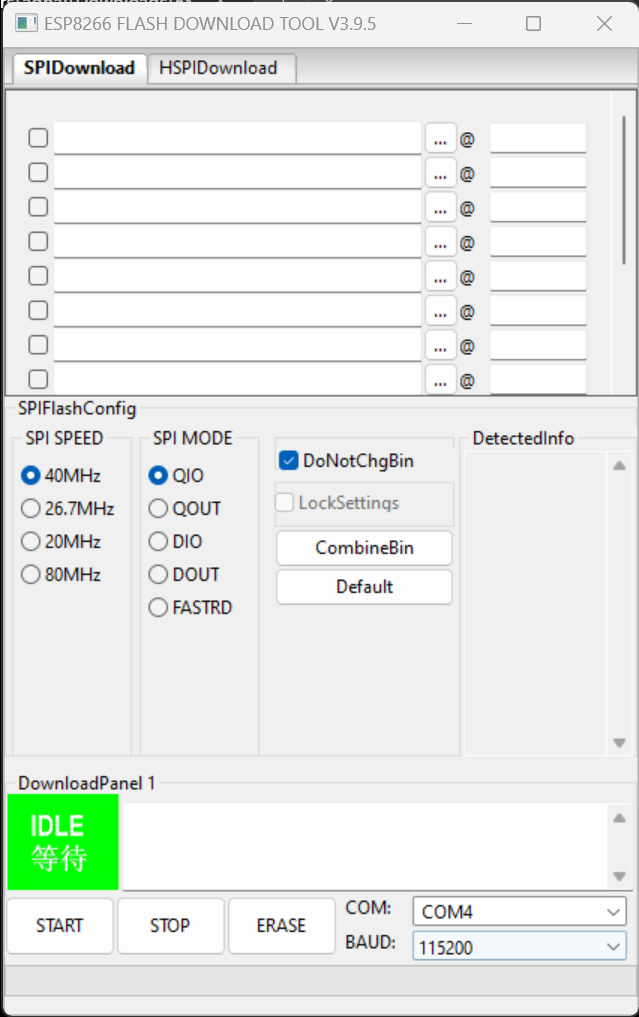
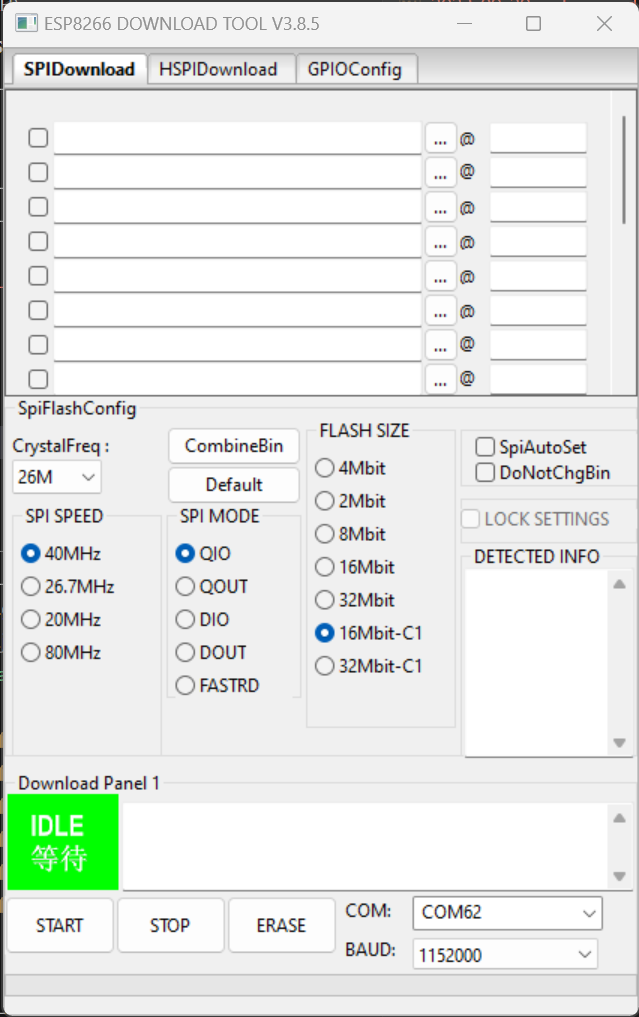
Fixing DCC-EX instructions

diff --git a/_posts/2023-09-29-arduino.md b/_posts/2023-09-29-arduino.md
@@ -13,9 +13,9 @@ So, here is the mechanism that worked for me.
 
 ## Step 1: Download the files you will need
 
-You need a flash downloader and the appropriate flash files.  You can download the flash downloader from [Espressif](https://www.espressif.com/en/support/download/other-tools).  Note that this only works on a Windows PC.
+You need a flash downloader and the appropriate flash files.  You can download the flash downloader from [DCC-EX](https://dcc-ex.com/_static/files/esp8266/flash_download_tool_v3.8.5.zip), but there are other flash download tools that work as werll.  Note that this only works on a Windows PC.
 
-The flash files themselves [are available on GitHub](https://github.com/espressif/ESP8266_NONOS_SDK), also from Espressif.  When you get to the GitHub page, click on **Code**, then **Download ZIP**.
+The flash files themselves [are available on DCC-EX](https://dcc-ex.com/_static/files/esp8266/ESP8266_NonOS_AT_Bin_V1.7.4.zip) for the precise version that DCC-EX supports, or you can download the v1.7 version from [the Espressif GitHub repo](https://github.com/espressif/ESP8266_NONOS_SDK).  When you get to the GitHub page, click on **Code**, then **Download ZIP**.
 
 You now have two ZIP files. Unpack them using your favorite tool (including the one built into Windows).
 
@@ -52,10 +52,14 @@ To set up the Arduino for flashing:
 
 To erase the Arduino memory:
 
-* Start the `flash_download_tool_3.9.5.exe`.
-* Select `ESP8266` and `Develop` from the drop-downs.
+* Start the `flash_download_tool_3.8.5.exe`.
+* Click **Developer Mode**.
 
-![The Flash Download Tool front page](/assets/2023/0929/img2.png)
+  ![Select Developer Mode](/assets/2023/0929/screenshot-1.png)
+
+* Click **ESP8266 Download Tool**.
+
+  ![Select ESP8266 Download Tool](/assets/2023/0929/screenshot-2.png)
 
 This will bring up a rather intimidating looking screen, with no details on it.  Yes, this is where most people will go wrong.
 
@@ -65,16 +69,17 @@ Let's split this into three areas:
 
 1. At the bottom (next to the START/STOP/ERASE) is the COM and BAUD settings.  This is the communications port that is used to communicate with the Arduino board.
 2. In the middle is the SPIFlashConfig section. Set these to:
-   * SPI SPEED = 40MHz
-   * SPI MODE = DIO
-   * `DoNotChgBin` is checked
-3. At the top is a list of files and the memory locations they will be flashed to.  All the files are in the `ESP8266_NONOS_SDK-master` directory that was created when you downloaded the GitHub repository.  More on this later.
+   * CrystalFreq = **26M**
+   * SPI SPEED = **40MHz**
+   * SPI MODE = **DIO**
+   * FLASH SIZE = **16Mbit-C1**
+3. In the bottom section, set BAUD to **460800**
 
 Let's find out our COM setting.  Open up Device Manager (search for it if you don't know where it is), then expand the **Ports (COM & LPT)** section.  You are looking for something called `USB-SERIAL CH340`.
 
 ![The Device Manager showing the USB-SERIAL port](/assets/2023/0929/img4.png)
 
-On mine, this is **COM4**.  Yours may be different, since it's dependent on your computer.  Select this value in the COM drop-down of the Flash Download Tool. Make sure the BAUD is set to 115200 (which is the default).
+On mine, this is **COM4**.  Yours may be different, since it's dependent on your computer.  Select this value in the COM drop-down of the Flash Download Tool.
 
 Finally, we need to put values in the matrix at the top.  For each file mentioned below, click on the `...` to open a file browser, and find the file (the path given is relative to the top of the GitHub repository directory), then click **Open**.  Enter the address provided in the right hand box, then check the box to the left.
 
@@ -90,43 +95,35 @@ Once you are done, your window will look something like this:
 
 ![The Flash Download Tool main page - configured](/assets/2023/0929/img5.png)
 
-If you like, you can erase the flash memory first - click on **ERASE**.  However, it isn't needed.
+First, erase the memory, press **ERASE**.  This only takes a couple of seconds.
 
-To flash the memory, press **START**.
+Once erasure is complete, flash the memory, press **START**.
 
 The flash download tool opens up a terminal window so you can see what is going on.  You will see something like the following:
 
 ```text
-Uploading stub...
+.Uploading stub...
 Running stub...
 Stub running...
-Changing baud rate to 115200
+Changing baud rate to 460800
 Changed.
-NO XMC flash  detected!
+-----------------------
 crc_efuse_4bit: 0
 crc_calc_4bit: 7
-Flash will be erased from 0x00000000 to 0x00000fff...
-Flash will be erased from 0x00001000 to 0x00065fff...
-Flash will be erased from 0x000fe000 to 0x000fefff...
-Flash will be erased from 0x001fc000 to 0x001fcfff...
-Flash will be erased from 0x001fe000 to 0x001fefff...
-Compressed 4080 bytes to 2936...
-Compressed 413444 bytes to 296955...
-Compressed 4096 bytes to 26...
-Compressed 128 bytes to 75...
-Compressed 4096 bytes to 26...
+48bit mac
 
  is stub and send flash finish
 ```
 
-This doesn't take very long - if you get to 10 minutes and see lots of dots, something has gone wrong.  Make sure that this process completes to the very end before continuing.
+This doesn't take very long - if you get to 5 minutes and see lots of dots, something has gone wrong.  Make sure that this process completes to the very end before continuing.
 
 ## Step 4: Switch your Arduino to running mode
 
 Now you want to switch your Arduino back into normal or running mode.  To do this:
 
 * Unplug your Arduino from the USB cable.
-* Turn all the _DIP switches_ off, except 3 and 4 (which should be turned on).
+* Turn all the _DIP switches_ off.
+* Turn _DIP switches_ 1, 2, 3, and 4 on.
 * Leave the _Wi-Fi communications port selector_ set to RXD3/TXD3.
 
 Now, plug the Arduino board back into your PC and start the Arduino IDE. In the **Select Board** drop-down, select your COM port (the one you discovered in the Device Manager).

diff --git a/_posts/2023-10-01-scenic-ridge-5.md b/_posts/2023-10-01-scenic-ridge-5.md
@@ -64,4 +64,6 @@ Here is some video of the locomotive making its way around the track!
   Your browser does not support the video tag.
 </video>
 
+If you have followed the instructions for joining the EX-CommandStation to Wi-Fi, you can also use an iOS throttle like [SRCPClient](https://apps.apple.com/us/app/srcpclient/id1495402734) (which is free) or [WiThrottle](https://apps.apple.com/app/id344172578) (which costs $9.99 on the iOS store).  I used SRCPClient and found it easy to start running trains.
+
 Now I've proven out the positioning of the risers relative to the actual track, I can dismantle the track and the top level of risers.  Once I've done that, I'll be laying the lower level of risers down.  But that's next time.
